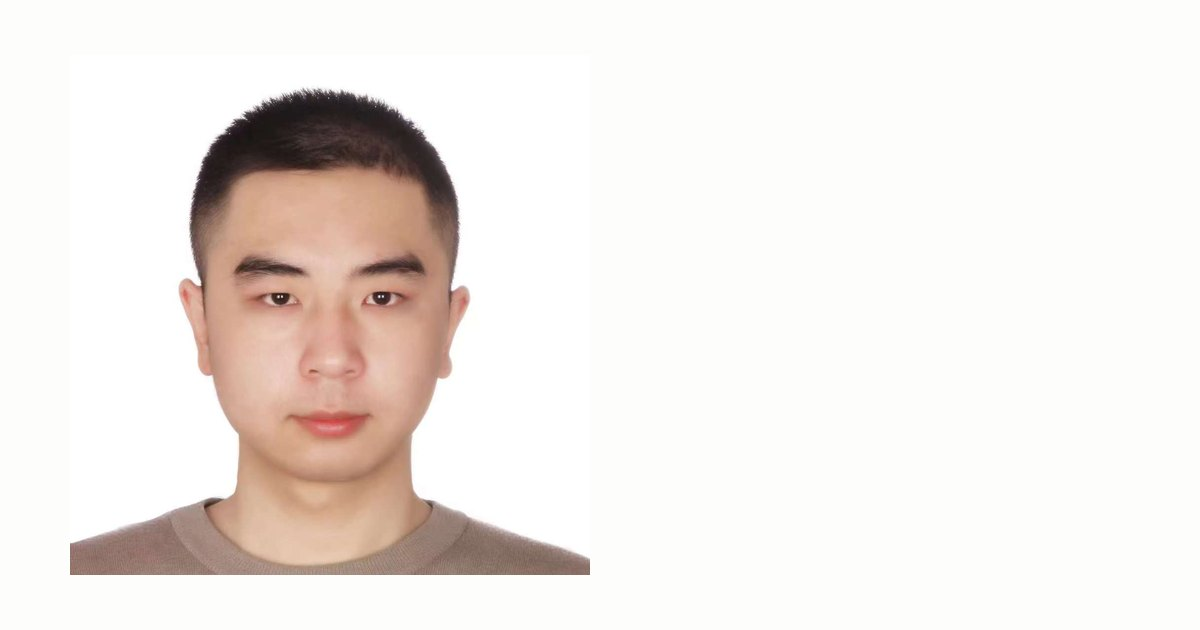
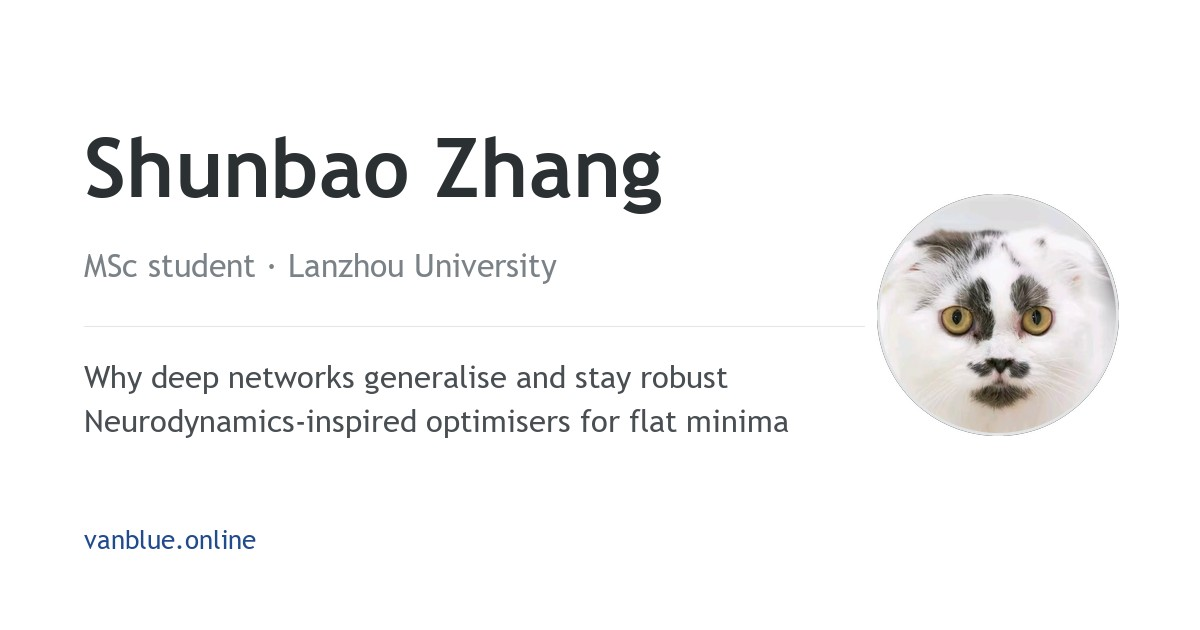
feat: new Open Graph card
1200x630 share card drawn with the site's own type and palette: name, role,
the two-line research statement, the domain, and the avatar in a ring.
Also emit og:image:width/height/alt so scrapers lay it out correctly.

Changed region(s): [[0.0308, 0.1206, 0.6783, 0.9349], [0.7092, 0.3016, 0.9558, 0.6937]]

diff --git a/templates/base.html b/templates/base.html
@@ -25,6 +25,9 @@
 <meta property="og:description" content="{% block og_description %}{{ config.description }}{% endblock og_description %}">
 <meta property="og:url" content="{{ current_url | default(value=config.base_url) }}">
 <meta property="og:image" content="{{ config.base_url }}{{ config.extra.og_image }}">
+<meta property="og:image:width" content="1200">
+<meta property="og:image:height" content="630">
+<meta property="og:image:alt" content="{{ trans(key='author', lang=lang) }} — {{ trans(key='affiliation', lang=lang) }}">
 <meta name="twitter:card" content="summary_large_image">
 
 <script type="application/ld+json">
